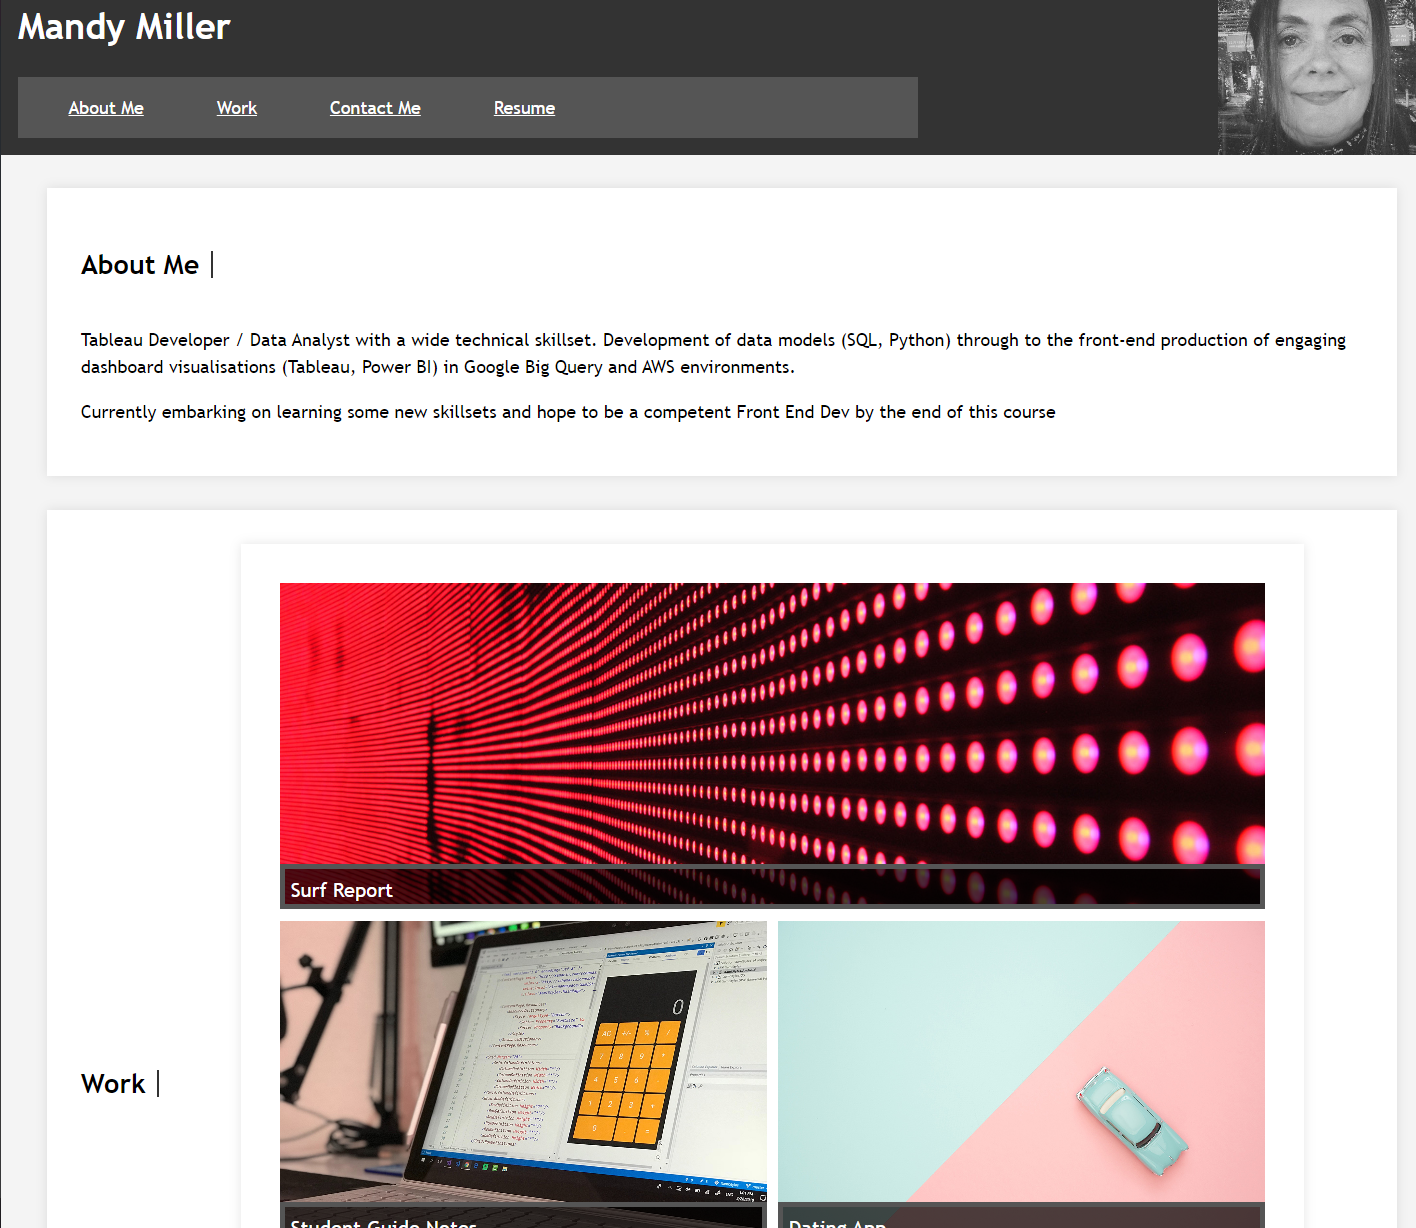
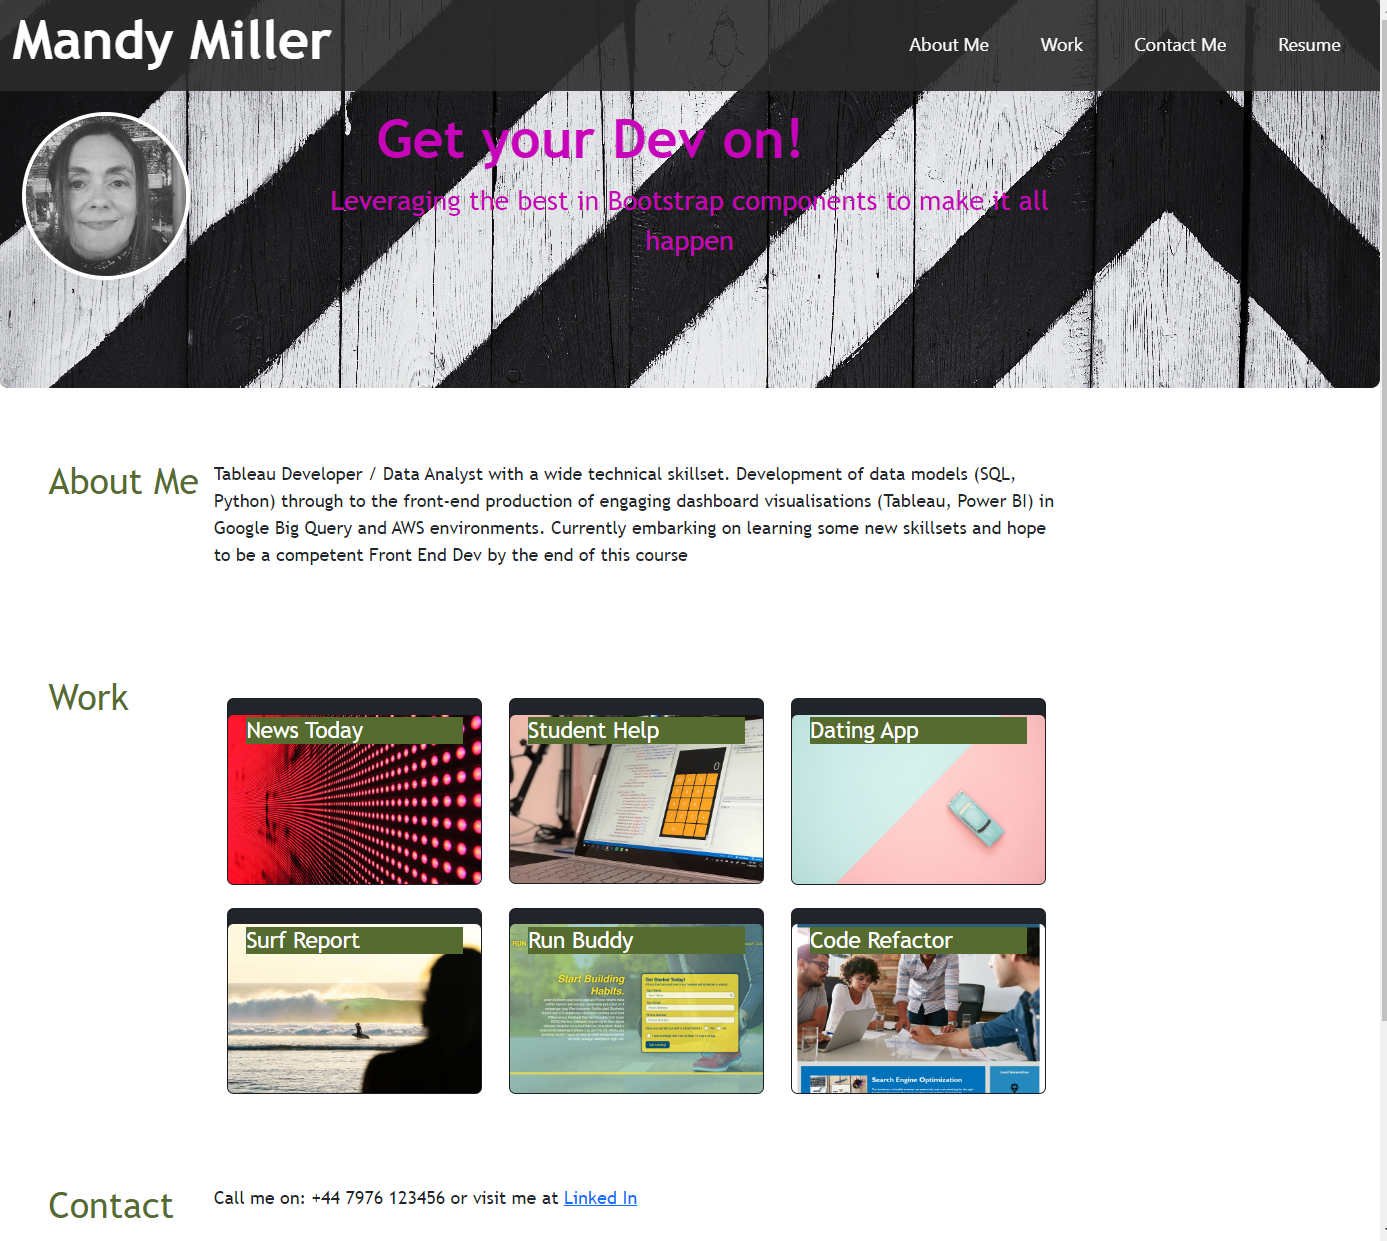
Updated README, and in doing so realise I missed one of the sections (Skills) have updated HTML and recommitted

diff --git a/index.html b/index.html
@@ -30,11 +30,12 @@
           <a class="nav-link" href="#work">Work</a>
         </li>
         <li class="nav-item">
-           <a class="nav-link" href="#contact">Contact Me</a>
+          <a class="nav-link" href="#resume">Skills</a>
         </li>
         <li class="nav-item">
-          <a class="nav-link" href="#resume">Resume</a>
+           <a class="nav-link" href="#contact">Contact Me</a>
         </li>
+
 
         </ul>
 </nav>
@@ -185,6 +186,27 @@
     
         </div>
       </div>
+
+      <div class="container section-container">
+        <div class="row">
+    
+          <!-- Fixed Width Section Title -->
+          <div class="col-md-3 fixed-width-sidebar">
+            <h2 class="sectionCopy" id="resume">Skills</h2>
+          </div>
+    
+          <!-- Divider (THESE AREN'T WORKING BUT I LEFT IN TO MAYBE FIX LATER)-->
+          <div class="col-md-1 divider"></div>
+    
+          <!-- Content to the Right -->
+          <div class="col-md-8">
+            <p>During this module I have increased my understanding of CSS classes and how to apply selectors to specific elements. My introduction to Bootstrap has given me access to vast libraries of code which saves me writing lots of CSS code, giving me more time to spend on designing webpages. I'm looking forward to the next module on JavaScript where I can really start to interact with my web pages.
+            <p>Download my <a href="https://docs.google.com/document/d/1mKjLW9luS4vg1tAPeYfW8_EQ396YWX7bP-GUDDT93r0/edit?usp=sharing">CV here </a>  </p>
+          </div>
+    
+        </div>
+      </div>
+
       <div class="container section-container">
         <div class="row">
     
@@ -204,25 +226,6 @@
     
         </div>
       </div>
-      <div class="container section-container">
-        <div class="row">
-    
-          <!-- Fixed Width Section Title -->
-          <div class="col-md-3 fixed-width-sidebar">
-            <h2 class="sectionCopy" id="resume">Resume</h2>
-          </div>
-    
-          <!-- Divider (THESE AREN'T WORKING BUT I LEFT IN TO MAYBE FIX LATER)-->
-          <div class="col-md-1 divider"></div>
-    
-          <!-- Content to the Right -->
-          <div class="col-md-8">
-            <p>Download my <a href="https://docs.google.com/document/d/1mKjLW9luS4vg1tAPeYfW8_EQ396YWX7bP-GUDDT93r0/edit?usp=sharing">CV here </a>  </p>
-          </div>
-    
-        </div>
-      </div>
-
 
     <!-- Footer -->
     <div class="customFooter">

diff --git a/README.md b/README.md
@@ -1,2 +1,76 @@
-# Bootstrap-Portfolio
-Bootstrap Portfolio. Week 3 Challenge
+#  Unit 3 Challenge: Code Bootstrap Portfolio
+
+
+## User Story
+
+As a developer, I've been tasked with building a portfolio page, which I will add to as the course progresses. 
+
+I have previously built a version of this portfolio using HTML, CSS and Media queries. [HERE](https://mandyjmiller.github.io/week02_challenge)
+My challenge for this project is to rebuild using Bootstrap
+
+## Acceptance Criteria
+
+I will have met the brief when the following acceptance criteria are met:
+
+ Using Bootstrap, I've recreate my portfolio site with the following items:
+
+    - A Navigation bar which resizes accorrding to screensize
+
+    - A hero section including images, profile pics and any other topline information
+
+    - A work section displaying your work in grid Use bootstrap cards for each project linking to deployed applications (where applicable)
+
+    - A skills section
+
+    - An about / contact section.
+
+
+## Installation
+
+No particular installation requirements. Web page can be viewed using Chrome, Firefox, Safari or most other standard browser
+
+
+## Usage 
+
+This site can be accessed on GitPages [HERE](https://mandyjmiller.github.io/Bootstrap-Portfolio/)
+
+Screenshot of the site can be seen here:
+
+![screenshot](images/screenshot.png)
+
+
+
+## Credits
+
+Shout out to the teaching team at EdX and fellow students for help and collaboration.
+
+Tutorials and base materials from  [Module 3 Challenge](https://bootcampspot.instructure.com/courses/5651/assignments/67060)
+
+
+## License
+
+MIT License
+
+Copyright (c) 2023 Mandy Miller
+
+Permission is hereby granted, free of charge, to any person obtaining a copy
+of this software and associated documentation files (the "Software"), to deal
+in the Software without restriction, including without limitation the rights
+to use, copy, modify, merge, publish, distribute, sublicense, and/or sell
+copies of the Software, and to permit persons to whom the Software is
+furnished to do so, subject to the following conditions:
+
+The above copyright notice and this permission notice shall be included in all
+copies or substantial portions of the Software.
+
+THE SOFTWARE IS PROVIDED "AS IS", WITHOUT WARRANTY OF ANY KIND, EXPRESS OR
+IMPLIED, INCLUDING BUT NOT LIMITED TO THE WARRANTIES OF MERCHANTABILITY,
+FITNESS FOR A PARTICULAR PURPOSE AND NONINFRINGEMENT. IN NO EVENT SHALL THE
+AUTHORS OR COPYRIGHT HOLDERS BE LIABLE FOR ANY CLAIM, DAMAGES OR OTHER
+LIABILITY, WHETHER IN AN ACTION OF CONTRACT, TORT OR OTHERWISE, ARISING FROM,
+OUT OF OR IN CONNECTION WITH THE SOFTWARE OR THE USE OR OTHER DEALINGS IN THE
+SOFTWARE.
+
+---
+
+© 2023 edX Boot Camps LLC. Confidential and Proprietary. All Rights Reserved.
